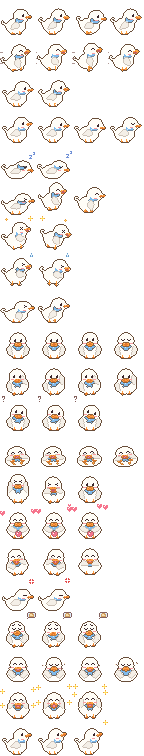
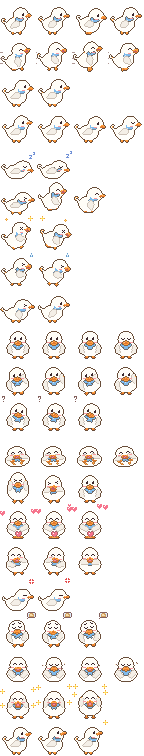
fix(art): duck legs go behind the body and the scarf follows the head
The side and front duck drew the body under the legs, so leg tops showed on
the belly. The body now paints after the legs and sits a little higher when
standing so the legs show below it; the eating pose keeps its height so the
bill still meets the bowl. The adult scarf moves with the head, so it no
longer floats over the face when the duck sleeps or crouches.

Claude-Session: https://claude.ai/code/session_01QTKFeeLBUNBZhj6R6jJCZF

diff --git a/tools/draw_farm.py b/tools/draw_farm.py
@@ -144,7 +144,8 @@ def duck(sp, *, side=True, bottom=None, cx=64.0, sq=(1.0, 1.0), rot=0.0, eyes="d
     col = st["col"]
     hk = _ST["head"]
     bk = _ST["body"]
-    bottom = FLOOR - 4 if bottom is None else bottom
+    # 서 있을 땐 몸을 조금 띄워 몸 아래로 다리가 보인다 (다리 윗끝은 몸 뒤)
+    bottom = FLOOR - 8 if bottom is None else bottom
     parts, ops = [], []
     rx, ry = 29 * bk * _ST["torso"][0], 22 * bk * _ST["torso"][1]
     bcy = bottom - ry
@@ -177,7 +178,8 @@ def duck(sp, *, side=True, bottom=None, cx=64.0, sq=(1.0, 1.0), rot=0.0, eyes="d
                         hspk.append(strand([(hx - 3, hy - hr + 4), (hx - 2, hy - hr - 3)] + arc(hx + 2, hy - hr - 5, 4, 4, 180, 330, 8), 4.2, 1.6))
                     hpart = Part([C(hx, hy, hr), neck], col, grow=1, spikes=hspk)
                     dp.mark_head(hx - 2, hy - hr * 0.84, hr * 1.25)
-                    parts.insert(0, body)
+                    # 몸은 다리 위에 (다리는 몸 뒤라 몸 아래로 발만 나온다)
+                    parts.append(body)
                     parts.append(hpart)
                     bp, bo = duck_bill(hx + hr * 0.78, hy + hr * 0.18, mouth, True, k=hk ** 0.5)
                     ex, ey = hx + hr * 0.3, hy - hr * 0.16
@@ -187,7 +189,8 @@ def duck(sp, *, side=True, bottom=None, cx=64.0, sq=(1.0, 1.0), rot=0.0, eyes="d
                     face += blush(hx + hr * 0.12, hy + hr * 0.42)
                     hops = face
                 if st["scarf"]:
-                    sx_, sy_ = bx + rx * 0.45, bcy - ry * 0.72
+                    # 목에 두른다: 머리가 내려가거나(잘 때·엎드릴 때) 움직이면 그만큼 따라간다
+                    sx_, sy_ = bx + rx * 0.45 + head[0] * 0.6, bcy - ry * 0.72 + head[1] * 0.75
                     parts.append(Part([L(arc(sx_ + 2, sy_ - 2, 10, 5, 30, 200, 10), 5.0),
                                        T((sx_ - 6, sy_ - 1), (sx_ - 14, sy_ + 9), (sx_ - 3, sy_ + 6))], SCARF,
                                       [([L([(sx_ - 11, sy_ + 6), (sx_ - 5, sy_ + 4)], 1.0)], SCARF_LIGHT)], grow=0, outline=True))
@@ -202,7 +205,7 @@ def duck(sp, *, side=True, bottom=None, cx=64.0, sq=(1.0, 1.0), rot=0.0, eyes="d
                 late = []  # 발라당: 발은 머리·배 앞에 (위로 버둥)
                 body_parts = [E(fcx - rx, bcy - ry, fcx + rx, bcy + ry)]
                 belly_m = [([E(fcx - rx * 0.62, bcy - ry * 0.2, fcx + rx * 0.62, bcy + ry * 1.1)], mix(col, WHITE, 0.45))]
-                parts.append(Part(body_parts, col, belly_m, grow=1))
+                body = Part(body_parts, col, belly_m, grow=1)
                 if feet and not ball:
                     for j, (fx_, fy_) in enumerate(feet):
                         s = -1 if j == 0 else 1
@@ -214,6 +217,8 @@ def duck(sp, *, side=True, bottom=None, cx=64.0, sq=(1.0, 1.0), rot=0.0, eyes="d
                         else:
                             parts.append(Part([L([(x, bottom - 5), (x, FLOOR - 2 + fy_)], 3.2)], BILL, grow=0, outline=True))
                             parts.append(duck_foot(x, FLOOR - 0.5 + fy_, rot=s * 8, side=False))
+                # 몸은 다리 위에 (발라당 다리는 late로 몸 앞에)
+                parts.append(body)
                 with xf(rot=head_rot, pivot=(hx, hy + hr * 0.9)):
                     hspk = duck_fluff(hx - 1, hy - hr, st["fluff"])
                     if st["curl"] == "head":
@@ -544,13 +549,13 @@ def dk_walk(sp, i):
     t = [-7, 0, 7, 0][i]
     up = [0, 1.5, 0, 1.5][i]
     feet = [((-3, -3), (3, 0)), ((0, -1), (0, 0)), ((3, 0), (-3, -3)), ((0, 0), (0, -1))][i]
-    return duck(sp, bottom=FLOOR - 4 - up, rot=t, head_rot=-t * 0.4, feet=feet, wings=[(1, [10, 20, 10, 20][i])])
+    return duck(sp, bottom=FLOOR - 8 - up, rot=t, head_rot=-t * 0.4, feet=feet, wings=[(1, [10, 20, 10, 20][i])])
 
 
 def dk_run(sp, i):
     up = [0, 3, 5, 2][i]
     feet = [((-5, -4), (5, 0)), ((-2, -2), (2, -1)), ((5, 0), (-5, -4)), ((2, -1), (-2, -2))][i]
-    return duck(sp, bottom=FLOOR - 4 - up, rot=[-10, -4, -10, -4][i] - 4, eyes="happy", mouth="open", feet=feet,
+    return duck(sp, bottom=FLOOR - 8 - up, rot=[-10, -4, -10, -4][i] - 4, eyes="happy", mouth="open", feet=feet,
                 wings=[(1, [70, 110, 70, 110][i])], fx=speed_fx(2, (70, 88, 104), 12, [0, -3, 0, -3][i]))
 
 
@@ -667,14 +672,14 @@ def dk_eat(sp, i):
     hy0 = bcy - ry * 0.6 - hr * 0.62
     want = my - hr * 0.3 - 6.5 * _ST["head"] ** 0.5 * 0.5
     fx = dp.eat_crumbs(i)
-    return duck(sp, side=False, head=(0, want - hy0), eyes="happy" if bite else "closed", mouth="open" if bite else "chew",
+    return duck(sp, side=False, bottom=st_b, head=(0, want - hy0), eyes="happy" if bite else "closed", mouth="open" if bite else "chew",
                 wings=[(-1, 40), (1, 40)], feet=None, fx=fx)
 
 
 def dk_level_up(sp, i):
     stars = dp.level_up_stars(i)
     up = [150, 165, 175][i]
-    return duck(sp, side=False, bottom=FLOOR - 4 - [0, 1, 3][i], eyes="happy", mouth="big", wings=[(-1, up), (1, up)], fx=stars)
+    return duck(sp, side=False, bottom=FLOOR - 8 - [0, 1, 3][i], eyes="happy", mouth="big", wings=[(-1, up), (1, up)], fx=stars)
 
 
 DUCK_POSES = {"walk": dk_walk, "run": dk_run, "roll": dk_roll, "idle": dk_idle, "look": dk_look, "sleep": dk_sleep, "hop": dk_hop,

diff --git a/tools/test_draw_farm.py b/tools/test_draw_farm.py
@@ -155,3 +155,35 @@ def test_duck_eat_puts_the_bill_on_the_bowl_with_the_real_head_radius(st, monkey
             draw_farm.dk_eat(sp, 0)
     cy, k = seen[0]
     assert abs(cy + 6.5 * k * 0.5 - my) < 0.01, (st, cy, k, my)
+
+
+@pytest.mark.parametrize("anim", ["walk", "idle", "sit_front"])
+@pytest.mark.parametrize("stage", ["baby", "adult"])
+def test_duck_legs_go_behind_the_body(monkeypatch, anim, stage):
+    """다리는 몸 뒤: 몸(가장 큰 조각)을 다리·발보다 나중에 칠해 몸 아래로 발만 나온다 (위에 칠하면 몸에 꽂힌 막대처럼 보인다)."""
+    seen = []
+    monkeypatch.setattr(draw_pets, "compose", lambda parts, ops, fx: seen.append(list(parts)) or Image.new("RGBA", (8, 8), (0, 0, 0, 255)))
+    with draw_pets.stage(stage):
+        draw_farm.DUCK_POSES[anim](draw_farm.DUCK, 0)
+    parts = seen[0]
+    # 몸 = 처음 칠하는 몸 색 조각, 머리 = 그다음 (부리도 주황이라 머리 앞 것만 다리로 센다)
+    body, head = [k for k, p in enumerate(parts) if p.grow == 1 and p.base != draw_farm.BILL][:2]
+    legs = [k for k, p in enumerate(parts[:head]) if p.base == draw_farm.BILL]
+    assert legs and body > max(legs), (anim, stage, legs, body)
+
+def test_duck_scarf_follows_the_neck_when_the_head_drops(out):
+    """어른 오리 목도리: 잘 때 머리가 내려가면 목도리도 따라 내려간다 (제자리에 남으면 얼굴에 걸친다)."""
+    meta = json.loads((out / "duck" / "pet.json").read_text(encoding="utf-8"))
+    fs = meta["frame_sizes"].get("adult", meta["frame_size"])
+    sheet = np.asarray(Image.open(out / "duck" / "sheet_adult.png").convert("RGBA")).astype(int)
+
+    def scarf_y(anim):
+        r = meta["animations"][anim]["row"]
+        f = sheet[r * fs:(r + 1) * fs, :fs]
+        m = (np.abs(f[..., :3] - np.array(draw_farm.SCARF)).sum(axis=2) < 30) & (f[..., 3] > 200)
+        # 머리를 묻어 목이 거의 안 보이면 목도리도 거의 가린다 (그것도 괜찮다)
+        return m.nonzero()[0].mean() if m.sum() > 50 else None
+
+    asleep, awake = scarf_y("sleep"), scarf_y("idle")
+    assert awake is not None
+    assert asleep is None or asleep - awake >= fs * 0.05
